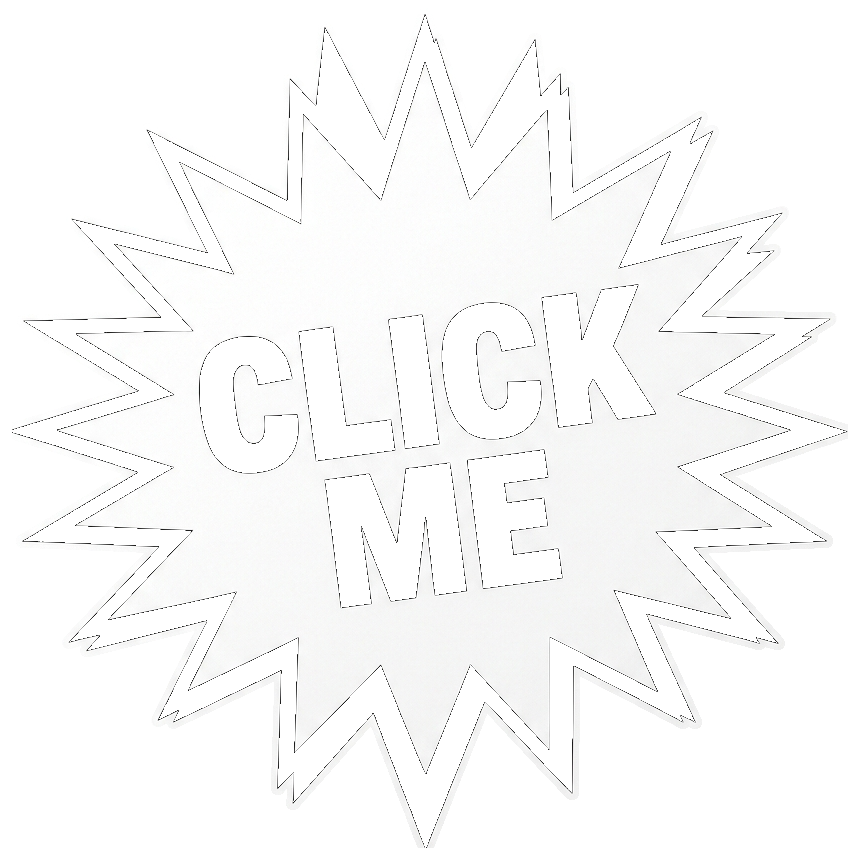
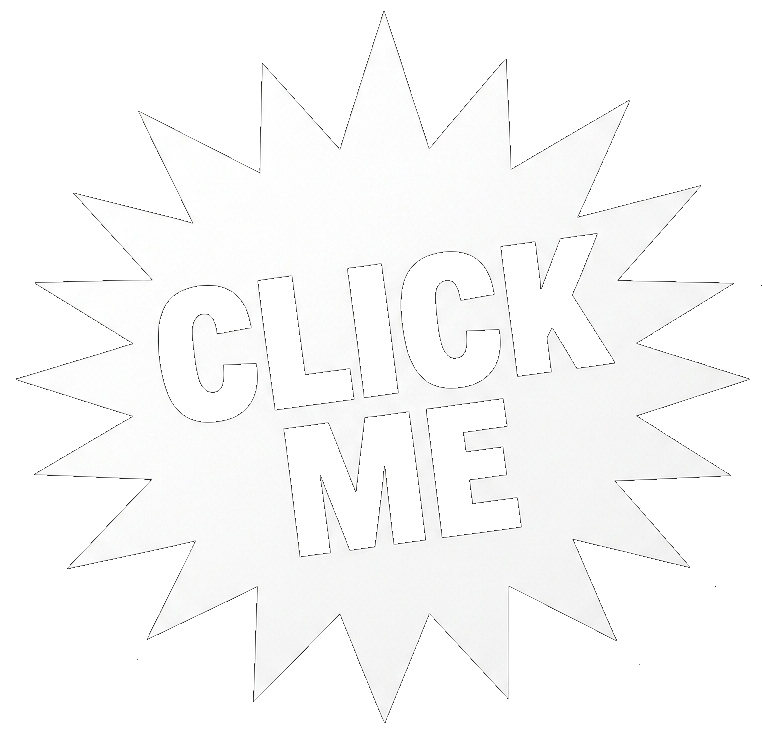
it7it76j7

diff --git a/css/app.css b/css/app.css
@@ -336,8 +336,8 @@ footer {
 }
 
 .centered-logo {
-	width: 33vw;
-	max-width: 420px;
+	width: 8.25vw;
+	max-width: 105px;
 	position: relative;
 	z-index: 1;
 }
